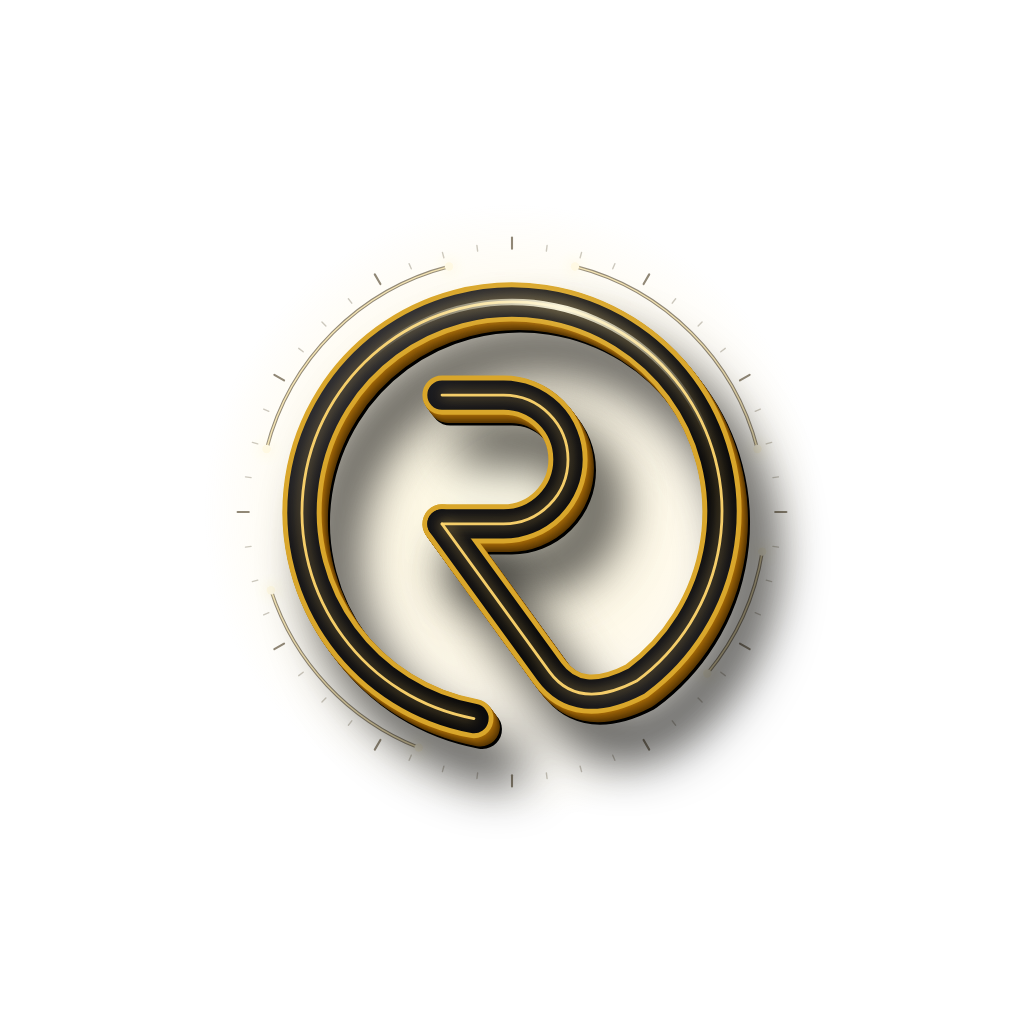
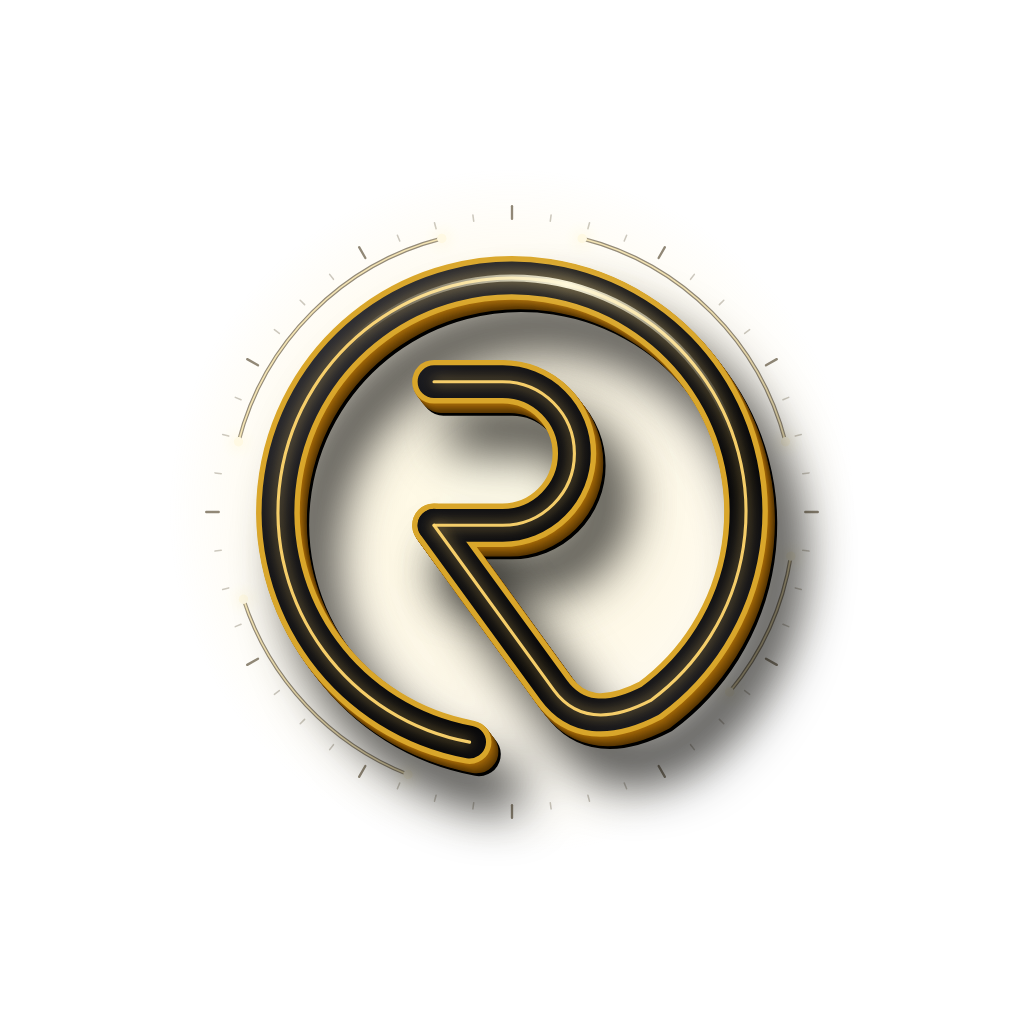
Ícone adaptativo um pouco maior (dentro da área segura do Android)
Claude-Session: https://claude.ai/code/session_01XJ8bKLCrMP12MgEMFxiEnn

Changed region(s): [[0.2188, 0.2188, 0.8125, 0.8125]]

diff --git a/tools/logo3d/arroba2.py b/tools/logo3d/arroba2.py
@@ -41,7 +41,7 @@ with sync_playwright() as p:
     pg = b.new_page(); pg.goto('file://' + os.path.join(HERE, 'arroba2.html'))
     if out == 'icons':
         o = OPTS[sys.argv[2]]; A = os.path.join(HERE, '..', '..', 'assets')
-        for name, extra in [('icon', {}), ('logo-header', {}), ('adaptive-icon', dict(noBg=True, grid=False, scale=0.7, spark=None))]:
+        for name, extra in [('icon', {}), ('logo-header', {}), ('adaptive-icon', dict(noBg=True, grid=False, scale=0.78, spark=None))]:
             d = pg.evaluate('o=>render(o)', {**o, **extra}).split(',')[1]
             open(os.path.join(A, name + '.png'), 'wb').write(base64.b64decode(d)); print(name)
         d = pg.evaluate("o=>{bg(o); return c.toDataURL('image/png')}", dict(grid=True, goldBg=o.get('goldBg', False))).split(',')[1]
